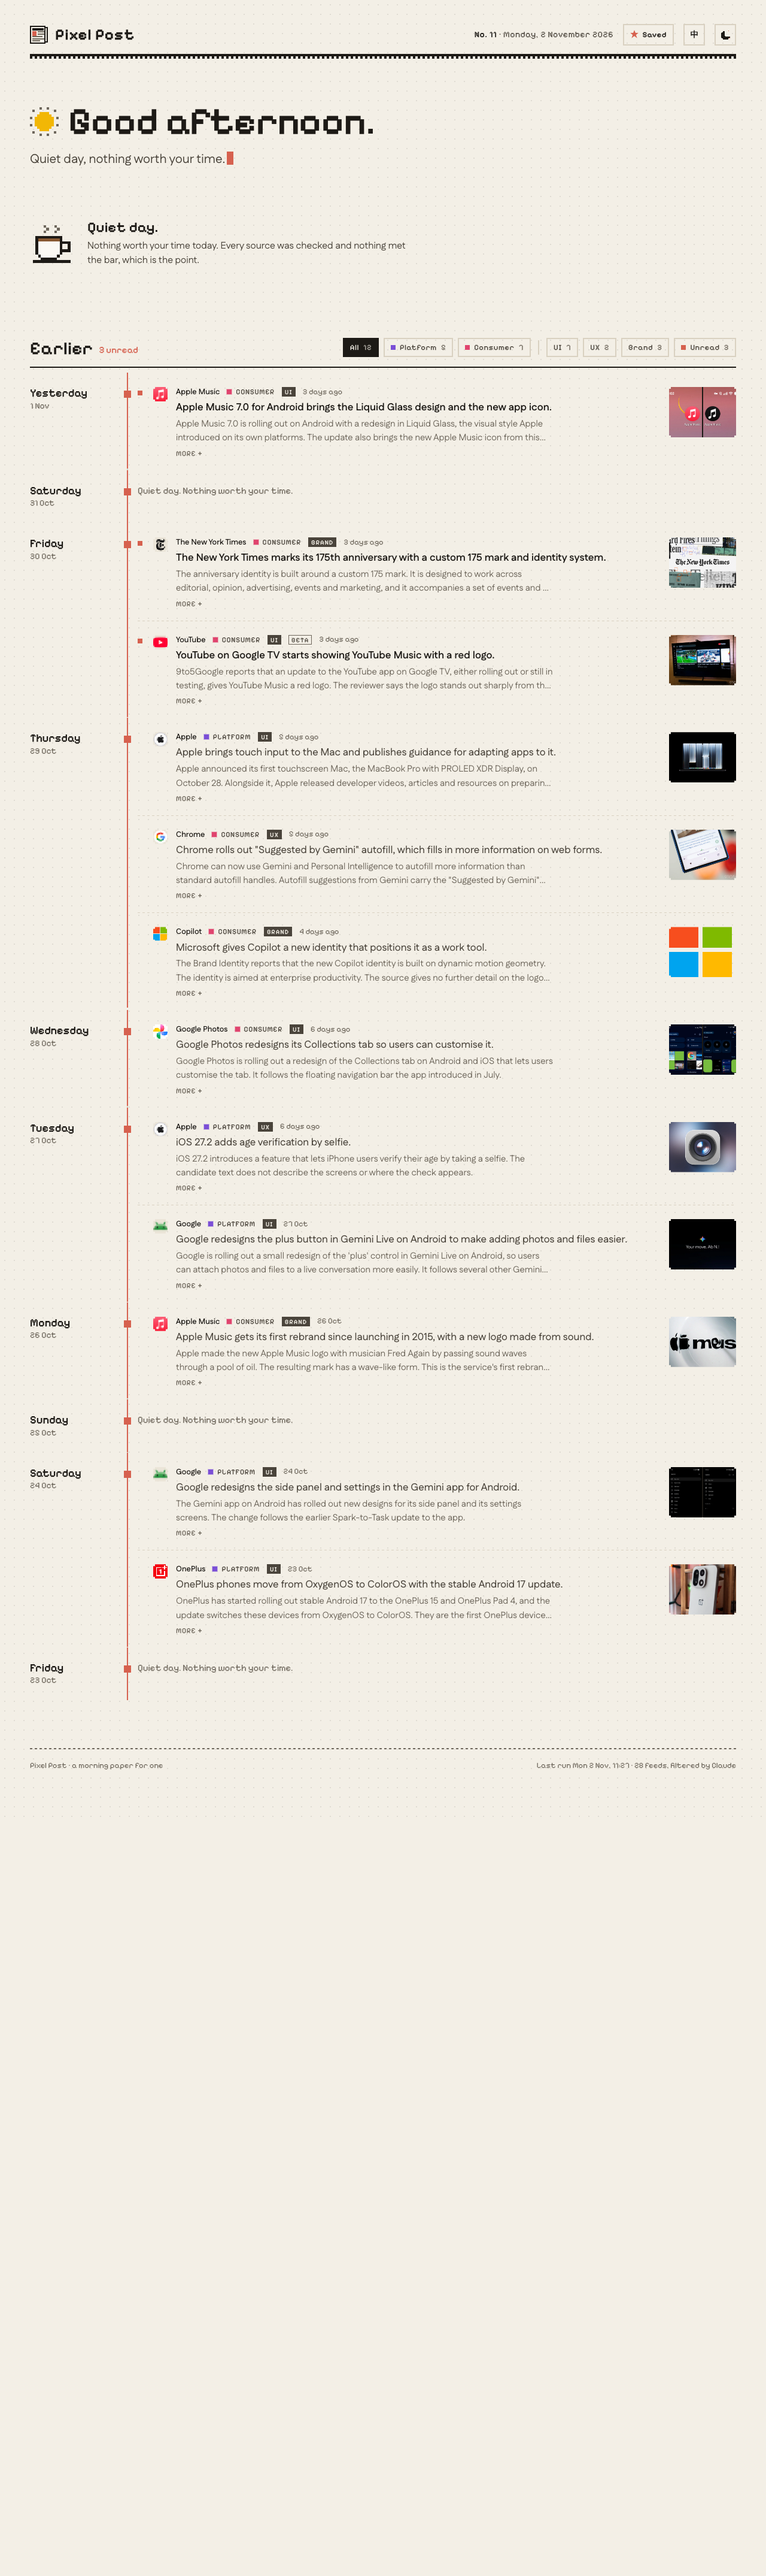
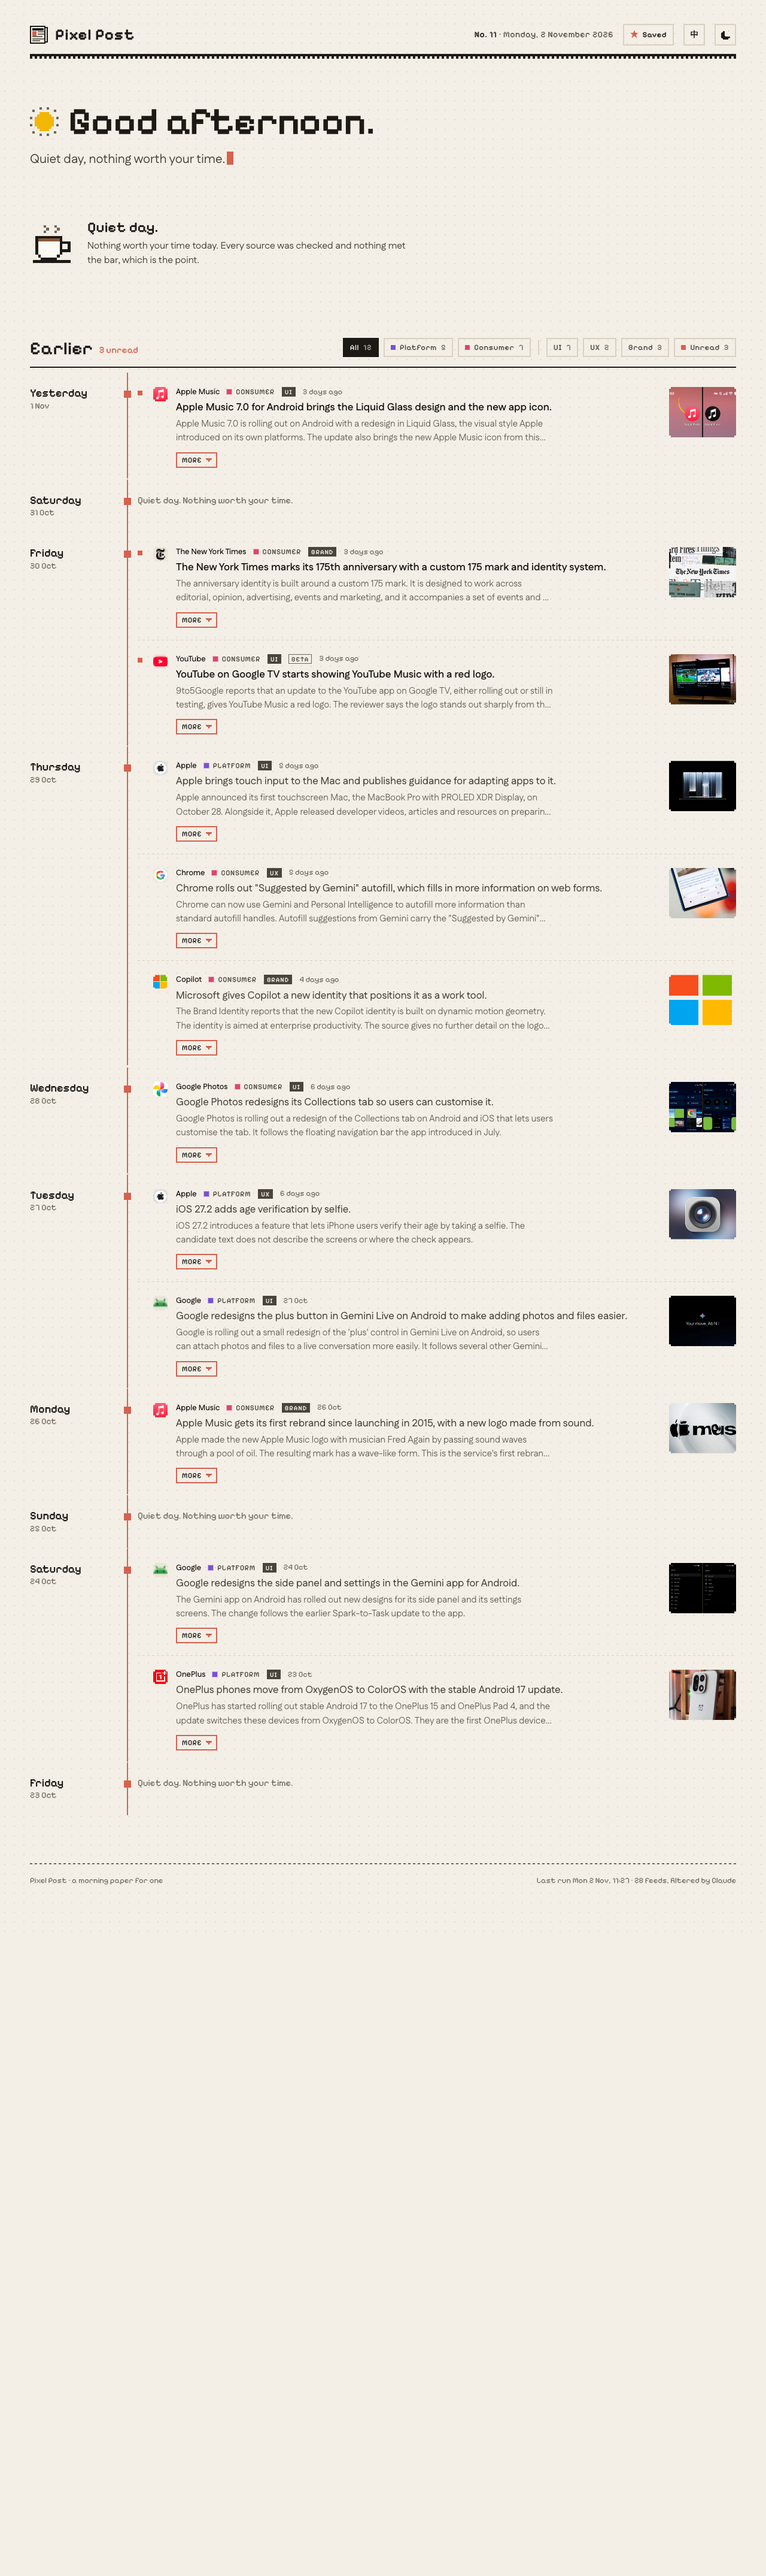
More/Less: easier to see, Less at the bottom, one smooth motion

diff --git a/site/app.js b/site/app.js
@@ -510,8 +510,10 @@ function cardHtml(item, i, withMedia) {
     ${metaRow(item)}
     <h3 class="headline"><a href="${esc(safeUrl(item.sources?.[0]?.url))}" target="_blank" rel="noopener" data-read="${esc(item.id)}">${esc(txt(item, 'headline'))}</a></h3>
     <p class="what clamp">${esc(txt(item, 'what'))}</p>
-    ${moreBtn(`more-${item.id}`)}
-    <div class="more-body" id="more-${esc(item.id)}" hidden>${why(item)}</div>
+    <div class="fold">
+      <div class="more-body" id="more-${esc(item.id)}" hidden><div class="more-in">${why(item)}</div></div>
+      ${moreBtn(`more-${item.id}`)}
+    </div>
     ${sources(item)}
     ${actions(item)}
   </article>`;
@@ -519,7 +521,8 @@ function cardHtml(item, i, withMedia) {
 
 /** Cards and rows open the same way: the headline goes to the source, More + shows the rest here. */
 function moreBtn(id) {
-  return `<button class="more" type="button" aria-expanded="false" aria-controls="${esc(id)}"><span class="more-label">${t().more}</span></button>`;
+  const chevron = '<svg class="chev" viewBox="0 0 7 4" width="10" height="6" aria-hidden="true" shape-rendering="crispEdges"><path d="M0 0h7v1H6v1H5v1H4v1H3V3H2V2H1V1H0z" fill="currentColor"/></svg>';
+  return `<button class="more" type="button" aria-expanded="false" aria-controls="${esc(id)}"><span class="more-label">${t().more}</span>${chevron}</button>`;
 }
 
 function patternHtml(text) {
@@ -579,16 +582,18 @@ function rowHtml(item) {
         <p class="row-top"><span class="app">${esc(item.app)}</span><span class="tag" data-cat="${esc(item.category)}"><span class="tag-label">${t().cat[item.category] ?? ''}</span></span>${kindTag(item)}${item.beta ? `<span class="beta">${t().beta}</span>` : ''}${releaseTag(item)}<span class="saved-mark" aria-hidden="true"></span><span class="when">${ago(item.published_at)}</span>${unread ? `<span class="sr-only">${t().unread}</span>` : ''}</p>
         <h3 class="row-title"><a ${link}>${esc(txt(item, 'headline'))}</a></h3>
         <p class="what clamp">${esc(txt(item, 'what'))}</p>
-        ${moreBtn(`more-${item.id}`)}
       </div>
     </div>
     ${thumb}
-    <div class="more-body row-body" id="more-${esc(item.id)}" hidden>
-      <div class="row-body-in">
-        ${why(item)}
-        ${sources(item)}
-        ${actions(item)}
+    <div class="fold row-fold">
+      <div class="more-body" id="more-${esc(item.id)}" hidden>
+        <div class="more-in">
+          ${why(item)}
+          ${sources(item)}
+          ${actions(item)}
+        </div>
       </div>
+      ${moreBtn(`more-${item.id}`)}
     </div>
   </li>`;
 }
@@ -1098,21 +1103,23 @@ function wireLanguage() {
 
 /* ---------- opening a card or row ---------- */
 
-const EASE = 'cubic-bezier(0.2, 0.7, 0.2, 1)';
+const EASE = 'cubic-bezier(0.3, 0, 0.2, 1)';
 
 /**
- * More + / Less −. The two-line summary grows to its full length, then the rest prints in from the top,
- * like the scroll reveal. Closing runs it backwards. Reduced motion just shows and hides.
+ * More / Less. The summary and the opened text grow (or shrink) together in one motion, and the button,
+ * pinned to the bottom, rides along. Opening also prints the text in from the top, like the scroll reveal.
+ * A second click mid-way starts from wherever the motion has got to. Reduced motion just shows and hides.
  */
 function toggleMore(btn) {
   const open = btn.getAttribute('aria-expanded') !== 'true';
   const host = btn.closest('.row, .card');
   const what = host.querySelector('.what');
+  const fold = btn.closest('.fold');
   const body = document.getElementById(btn.getAttribute('aria-controls'));
+  const inner = body.firstElementChild;
   btn.setAttribute('aria-expanded', String(open));
   btn.querySelector('.more-label').textContent = open ? t().less : t().more;
   host.classList.toggle('open', open);
-  for (const el of [what, body]) el.getAnimations().forEach((a) => a.cancel());
 
   if (open && host.classList.contains('unread')) {
     markRead([host.dataset.id]);
@@ -1122,30 +1129,32 @@ function toggleMore(btn) {
     renderFilters(archiveDays);
   }
 
-  if (reduced) {
-    what.classList.toggle('clamp', !open);
-    body.hidden = !open;
-    return;
-  }
+  // Where things are now, mid-motion or not, before stopping any running animation.
+  const from = [what.getBoundingClientRect().height, fold.getBoundingClientRect().height];
+  for (const el of [what, fold, inner]) el.getAnimations().forEach((a) => a.cancel());
+  fold.classList.remove('moving');
 
-  const clamped = what.offsetHeight;
-  what.classList.remove('clamp');
-  const full = what.offsetHeight;
-  body.hidden = false;
-  const bodyH = body.offsetHeight;
+  const settle = (isOpen) => {
+    what.classList.toggle('clamp', !isOpen);
+    body.hidden = !isOpen;
+  };
+  if (reduced) return settle(open);
+
+  // Measure the end state, then show the full text while moving so nothing jumps.
+  settle(open);
+  const to = [what.offsetHeight, fold.offsetHeight];
+  settle(true);
+  fold.classList.add('moving');
+  const timing = { duration: open ? 260 : 220, easing: EASE };
+  what.animate([{ height: `${from[0]}px` }, { height: `${to[0]}px` }], timing);
+  const run = fold.animate([{ height: `${from[1]}px` }, { height: `${to[1]}px` }], timing);
   if (open) {
-    what.animate([{ height: `${clamped}px` }, { height: `${full}px` }], { duration: 220, easing: EASE });
-    body.animate([{ height: '0px', opacity: 0 }, { height: `${bodyH}px`, opacity: 1 }], { duration: 260, easing: EASE });
-    body.firstElementChild?.animate(
-      [{ clipPath: 'inset(0 0 100% 0)', transform: 'translateY(-6px)' }, { clipPath: 'inset(0 0 0 0)', transform: 'none' }],
-      { duration: 360, delay: 60, easing: 'steps(6, end)', fill: 'backwards' },
-    );
-  } else {
-    const shut = body.animate([{ height: `${bodyH}px`, opacity: 1 }, { height: '0px', opacity: 0 }], { duration: 180, easing: EASE });
-    const back = what.animate([{ height: `${full}px` }, { height: `${clamped}px` }], { duration: 200, delay: 60, easing: EASE });
-    shut.onfinish = () => (body.hidden = true);
-    back.onfinish = () => what.classList.add('clamp');
+    inner.animate([{ clipPath: 'inset(0 0 100% 0)' }, { clipPath: 'inset(0 0 0 0)' }], { duration: 320, easing: 'steps(6, end)' });
   }
+  run.onfinish = () => {
+    fold.classList.remove('moving');
+    settle(open);
+  };
 }
 
 /* ---------- events ---------- */

diff --git a/site/styles.css b/site/styles.css
@@ -911,26 +911,32 @@ button {
   background: repeating-linear-gradient(90deg, var(--line) 0 var(--px), transparent var(--px) calc(var(--px) * 2)) top / 100% 2px no-repeat;
 }
 
+/* More / Less: an outlined chip in the accent colour, with a pixel chevron that flips when open. */
 .more {
-  display: block;
-  margin-top: 10px;
-  padding: 0;
+  display: inline-flex;
+  align-items: center;
+  gap: 7px;
+  height: 26px;
+  padding: 0 9px 0 10px;
   border: 0;
-  background: none;
+  background: transparent;
+  box-shadow: inset 0 0 0 2px var(--accent);
   font: 500 12px/1 var(--display);
   letter-spacing: 0.06em;
   text-transform: uppercase;
-  color: var(--ink-3);
+  color: var(--ink);
   cursor: pointer;
+  transition: background-color 0.12s var(--step);
 }
 .more:hover {
-  color: var(--ink);
+  background: color-mix(in srgb, var(--accent) 14%, transparent);
 }
-.more::after {
-  content: ' +';
+.chev {
+  color: var(--accent);
+  transition: transform 0.2s steps(2, end);
 }
-.more[aria-expanded='true']::after {
-  content: ' −';
+.more[aria-expanded='true'] .chev {
+  transform: rotate(180deg);
 }
 /* The summary shows two lines until the card or row is opened. overflow stays hidden while its height animates. */
 .what.clamp {
@@ -942,20 +948,36 @@ button {
 .row .what {
   overflow: hidden;
 }
-.more-body {
+/* The fold holds the opened text and, pinned to its bottom, the button, so Less always sits at the very end and
+   rides the edge while the fold grows or shrinks. Clipped only while moving, so focus rings show the rest of the time. */
+.fold {
+  --fold-end: 0px;
+  position: relative;
+  padding-bottom: calc(36px + var(--fold-end));
+}
+.fold.moving {
   overflow: hidden;
+}
+.fold > .more {
+  position: absolute;
+  left: 0;
+  bottom: var(--fold-end);
 }
 .more-body[hidden] {
   display: none;
+}
+.more-in {
+  padding: 12px 0 6px;
+}
+.more-in > :first-child {
+  margin-top: 0;
 }
 .card .what {
   margin: 10px 0 0;
   font-size: 15px;
   color: var(--ink-2);
 }
-.card .more-body .why {
-  margin-top: 12px;
-}
+
 
 /* Lift on hover: the frame steps up and its shadow grows. */
 @media (hover: hover) {
@@ -1217,10 +1239,7 @@ button {
   grid-template-columns: 12px 24px minmax(0, 1fr);
   gap: 0 14px;
   align-items: start;
-  padding: 22px 0;
-}
-.row.open .row-head {
-  padding-bottom: 0;
+  padding-top: 22px;
 }
 .dot {
   width: 8px;
@@ -1275,9 +1294,6 @@ button {
 .row.open .what {
   color: var(--ink-2);
 }
-.row .more {
-  margin-top: 8px;
-}
 .row-thumb {
   grid-column: 2;
   grid-row: 1 / span 2;
@@ -1307,17 +1323,23 @@ button {
 .row-thumb.mosaic img {
   image-rendering: pixelated;
 }
-/* Lines up with the headline: 12px dot + 24px icon + two 14px gaps. Vertical space sits on the inner box, so the
-   outer one can animate its height down to zero. */
-.row-body {
+/* Lines up with the headline: 12px dot + 24px icon + two 14px gaps. */
+.row-fold {
+  --fold-end: 20px;
   grid-column: 1;
+  margin-top: 2px;
   padding-left: 64px;
 }
-.row-body-in {
-  padding: 4px 0 24px;
+.card .fold {
+  margin-top: 4px;
 }
-.row-body .why {
-  margin-top: 10px;
+.row-fold .more {
+  left: 64px;
+}
+.row-fold .actions {
+  margin-top: 12px;
+}
+.row-fold .why {
   font-size: 15px;
 }
 
@@ -1692,7 +1714,7 @@ html:lang(zh-CN) .row-title {
   .row-head {
     grid-template-columns: 8px 24px minmax(0, 1fr);
     gap: 0 10px;
-    padding: 18px 0;
+    padding-top: 18px;
   }
   .row-thumb {
     width: 72px;
@@ -1717,12 +1739,14 @@ html:lang(zh-CN) .row-title {
   .row-thumb {
     grid-row: 1;
   }
-  .row-body {
+  /* 8px dot + 24px icon + two 10px gaps. */
+  .row-fold {
+    --fold-end: 18px;
     grid-column: 1 / -1;
     padding-left: 52px;
   }
-  .row-body-in {
-    padding-bottom: 20px;
+  .row-fold .more {
+    left: 52px;
   }
   .day.quiet-day .rows {
     padding: 16px 0 20px;
